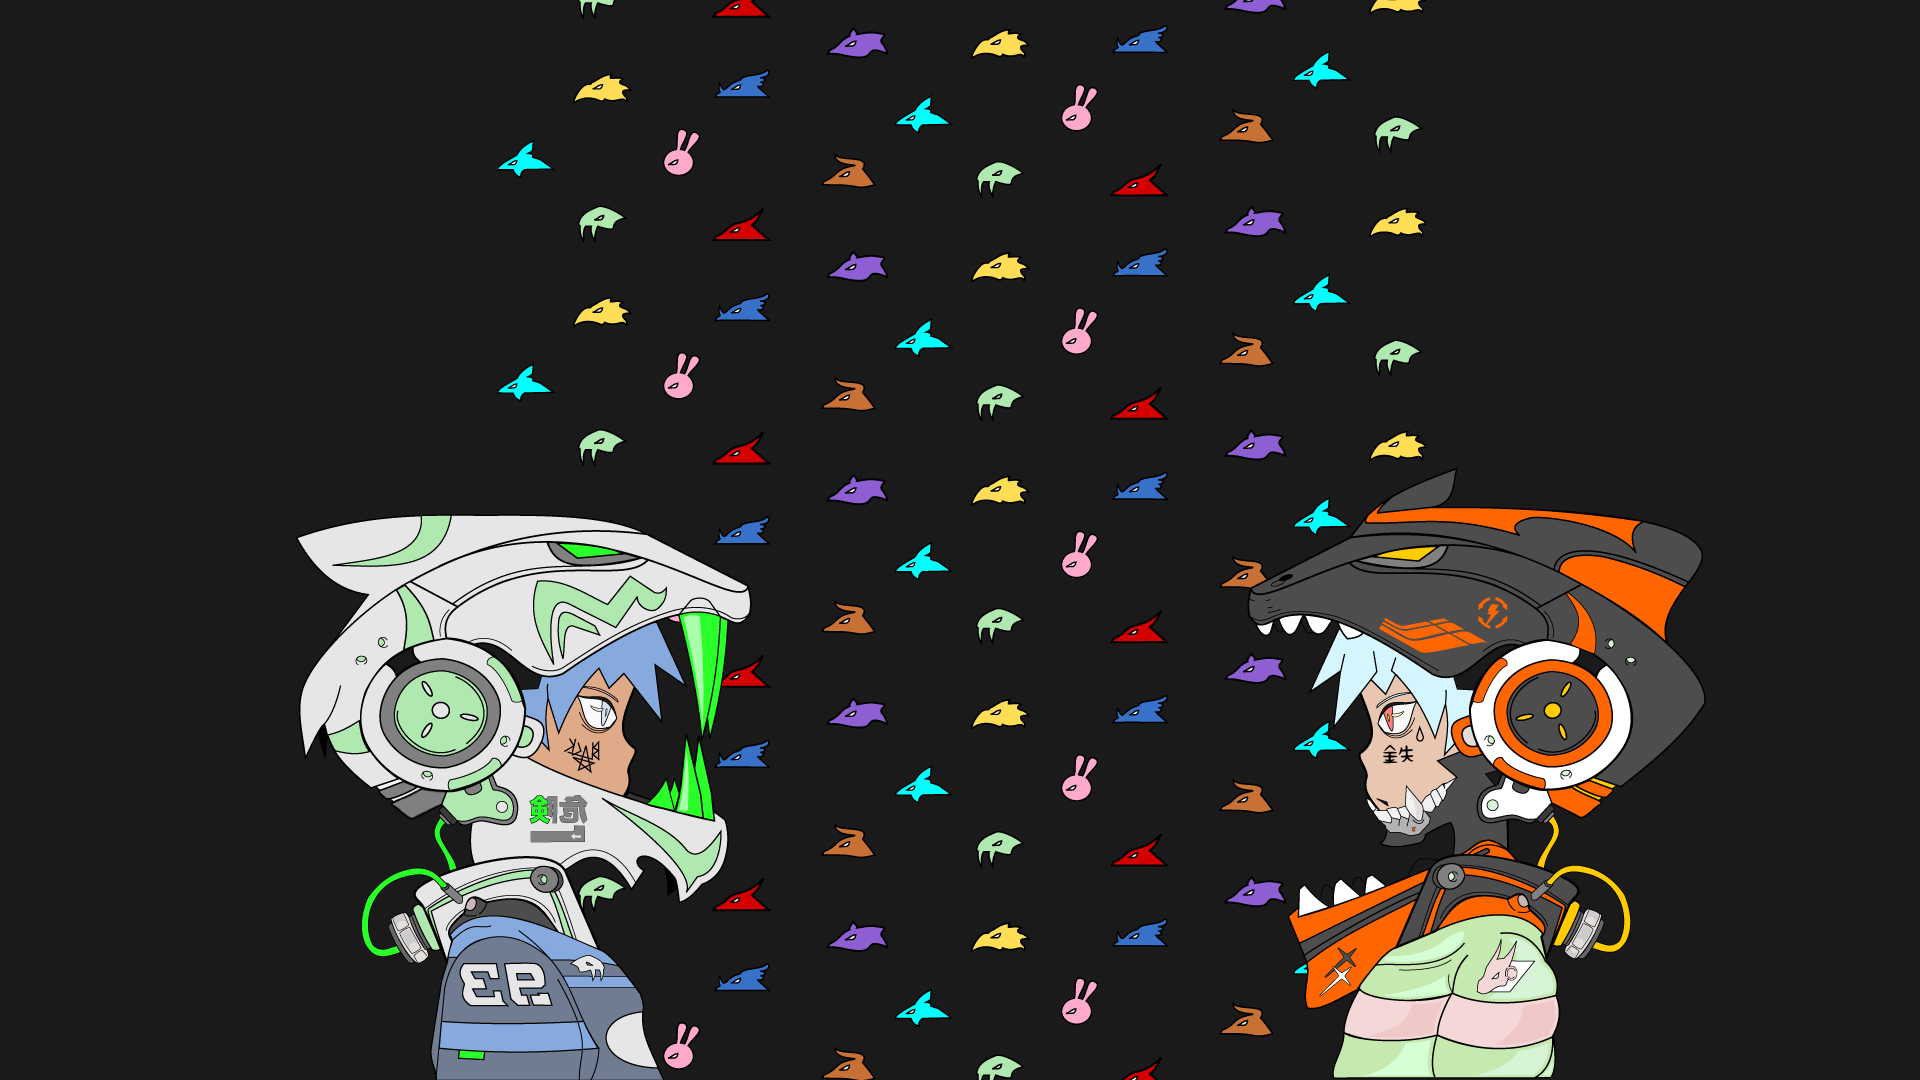
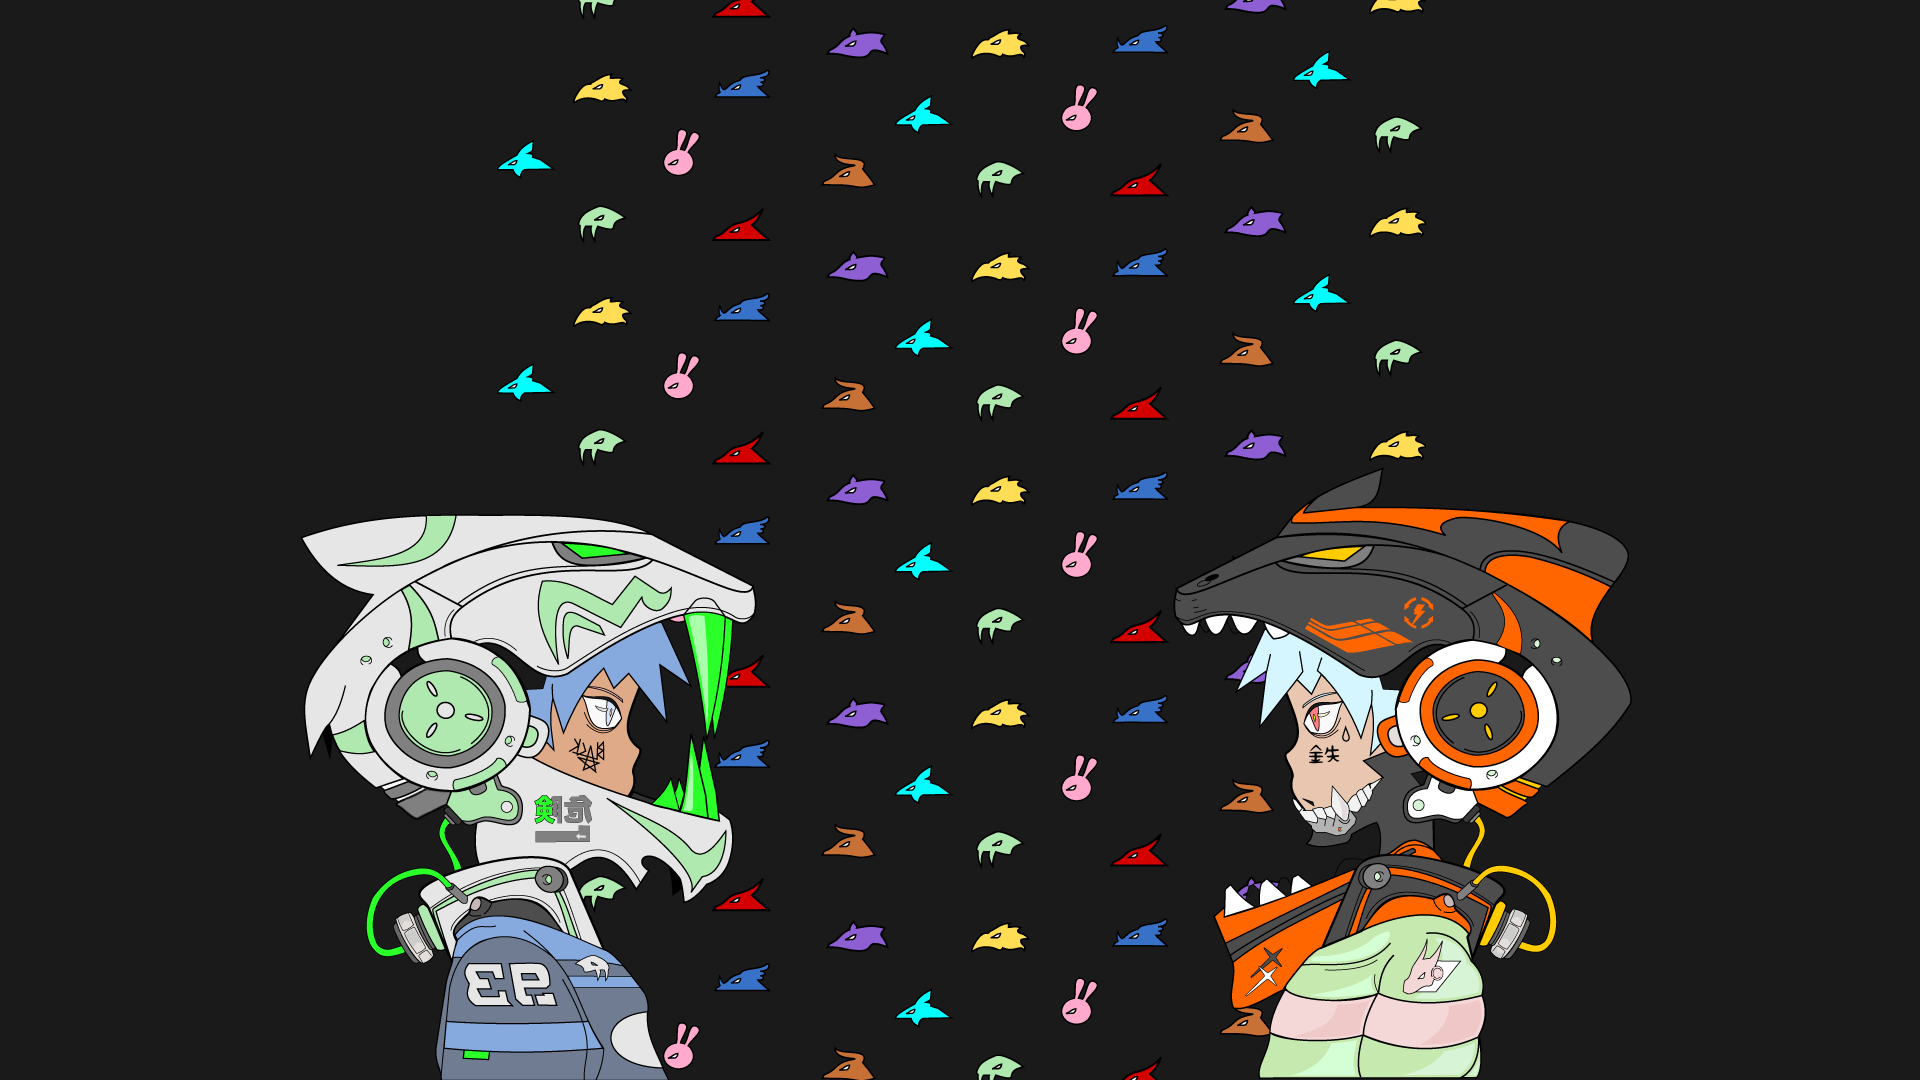
ok

Changed region(s): [[0.5938, 0.4278, 0.9062, 1.0], [0.1562, 0.4889, 0.4062, 1.0]]

diff --git a/src/index.css b/src/index.css
@@ -1,15 +1,14 @@
 body {
-  background-image: url("bg.png");
+  background-image: url("bg.png"); ;
   margin: 0;
-  font-family: -apple-system, BlinkMacSystemFont, "Segoe UI", "Roboto", "Oxygen",
-    "Ubuntu", "Cantarell", "Fira Sans", "Droid Sans", "Helvetica Neue",
+  font-family: -apple-system, BlinkMacSystemFont, 'Segoe UI', 'Roboto', 'Oxygen',
+    'Ubuntu', 'Cantarell', 'Fira Sans', 'Droid Sans', 'Helvetica Neue',
     sans-serif;
   -webkit-font-smoothing: antialiased;
   -moz-osx-font-smoothing: grayscale;
-  background-position: center;
 }
 
 code {
-  font-family: source-code-pro, Menlo, Monaco, Consolas, "Courier New",
+  font-family: source-code-pro, Menlo, Monaco, Consolas, 'Courier New',
     monospace;
 }
